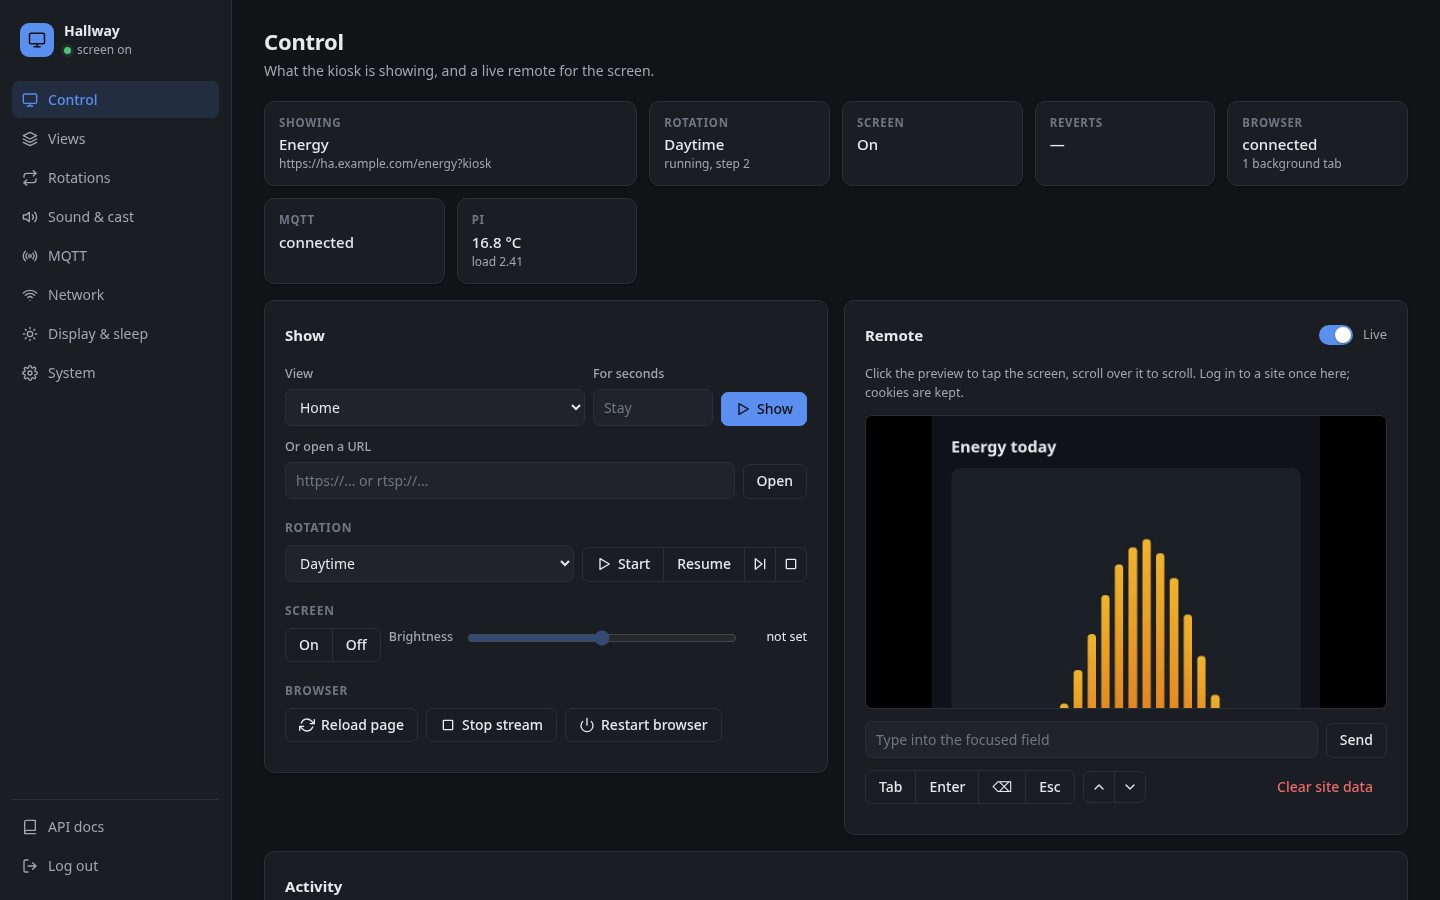
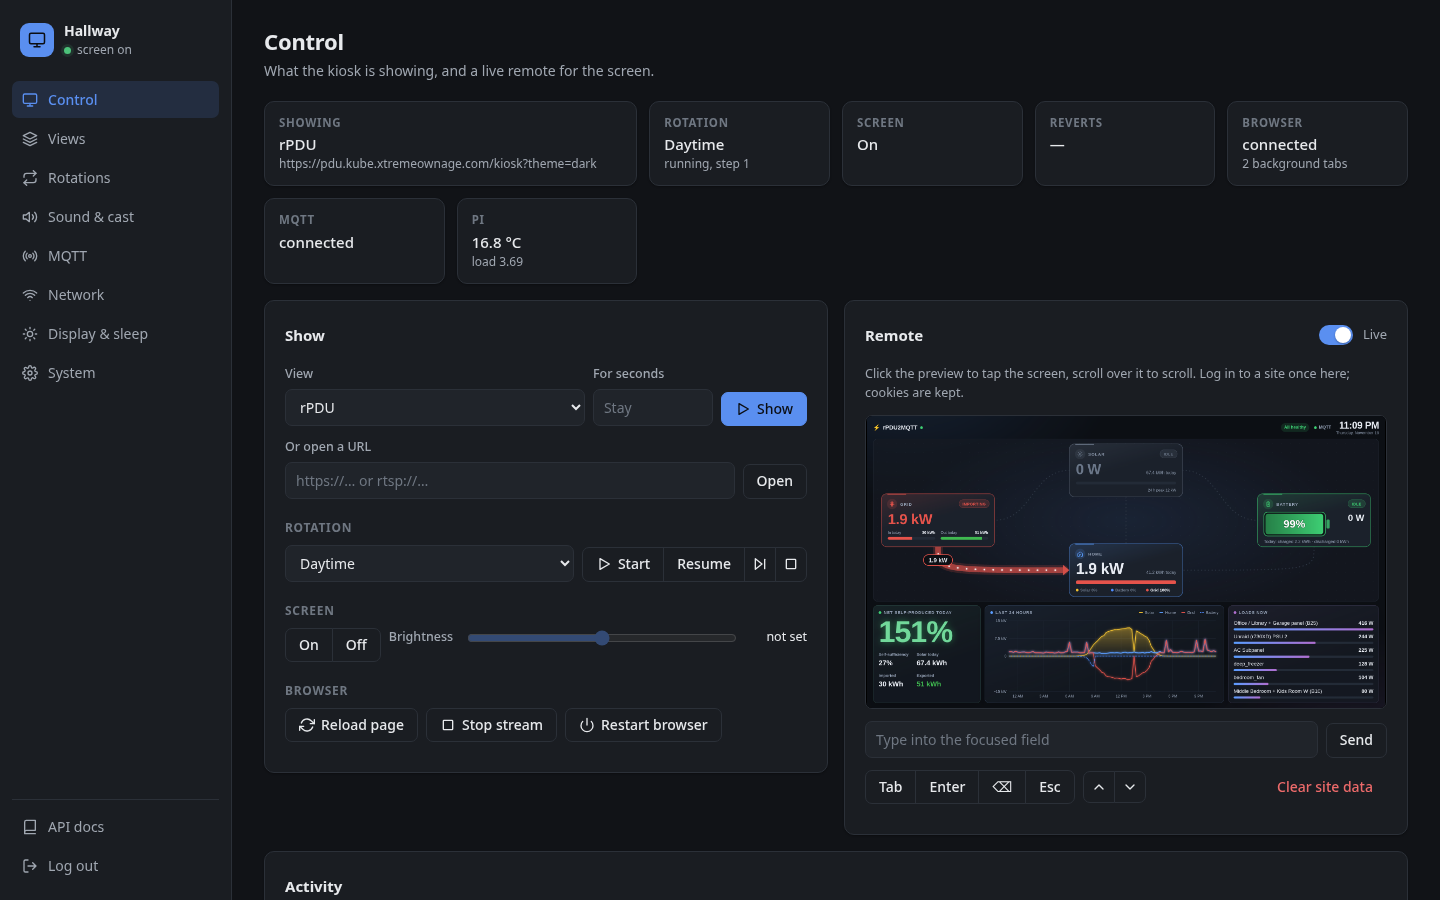
Use a real rPDU2MQTT screen in the docs; listen for YouTube on every network
- Screenshots: the Control preview and a new full-screen capture show a
  live rPDU2MQTT dashboard instead of a made-up page; the home page and
  README lead with it.
- The DIAL receiver joins the SSDP group on every IPv4 interface, so a
  wired kiosk that also joins the phones' Wi-Fi is found there.
- Wi-Fi scan and connect switch the Wi-Fi radio on first.
- Docs: options for phones on another network.

Changed region(s): [[0.5938, 0.4356, 0.9688, 0.8089], [0.1875, 0.1556, 0.4062, 0.1867], [0.2188, 0.4356, 0.25, 0.4667]]

diff --git a/internal/dial/dial.go b/internal/dial/dial.go
@@ -10,6 +10,7 @@ import (
 	"crypto/sha256"
 	"encoding/hex"
 	"encoding/xml"
+	"errors"
 	"fmt"
 	"io"
 	"log/slog"
@@ -19,6 +20,7 @@ import (
 	"strconv"
 	"strings"
 	"sync"
+	"syscall"
 	"time"
 )
 
@@ -168,6 +170,19 @@ func (s *Server) serve(ctx context.Context) error {
 	go func() {
 		<-ctx.Done()
 		conn.Close()
+	}()
+	// Listen on every network the kiosk is on (for example wired and a
+	// second Wi-Fi network for phones), including ones that come up later.
+	go func() {
+		joined := map[int]bool{}
+		for {
+			s.joinAll(conn, group.IP, joined)
+			select {
+			case <-ctx.Done():
+				return
+			case <-time.After(30 * time.Second):
+			}
+		}
 	}()
 	s.log.Info("dial receiver started", "port", s.port)
 	s.setRunning(true)
@@ -399,4 +414,44 @@ func StableUUID(id string) string {
 	h := sha256.Sum256([]byte("pikiosk-dial:" + id))
 	s := hex.EncodeToString(h[:16])
 	return s[0:8] + "-" + s[8:12] + "-" + s[12:16] + "-" + s[16:20] + "-" + s[20:32]
+}
+
+// joinAll joins the SSDP group on each up IPv4 multicast interface not in
+// joined yet.
+func (s *Server) joinAll(conn *net.UDPConn, group net.IP, joined map[int]bool) {
+	ifs, err := net.Interfaces()
+	if err != nil {
+		return
+	}
+	raw, err := conn.SyscallConn()
+	if err != nil {
+		return
+	}
+	for _, ifi := range ifs {
+		if joined[ifi.Index] || ifi.Flags&net.FlagUp == 0 || ifi.Flags&net.FlagMulticast == 0 || ifi.Flags&net.FlagLoopback != 0 {
+			continue
+		}
+		addrs, _ := ifi.Addrs()
+		has4 := false
+		for _, a := range addrs {
+			if n, ok := a.(*net.IPNet); ok && n.IP.To4() != nil {
+				has4 = true
+			}
+		}
+		if !has4 {
+			continue
+		}
+		mreq := &syscall.IPMreqn{Ifindex: int32(ifi.Index)}
+		copy(mreq.Multiaddr[:], group.To4())
+		var serr error
+		_ = raw.Control(func(fd uintptr) {
+			serr = syscall.SetsockoptIPMreqn(int(fd), syscall.IPPROTO_IP, syscall.IP_ADD_MEMBERSHIP, mreq)
+		})
+		if serr == nil || errors.Is(serr, syscall.EADDRINUSE) {
+			joined[ifi.Index] = true
+			if serr == nil {
+				s.log.Info("ssdp listening", "interface", ifi.Name)
+			}
+		}
+	}
 }

diff --git a/internal/system/network.go b/internal/system/network.go
@@ -115,7 +115,20 @@ type WiFiNetwork struct {
 	Active   bool   `json:"active"`
 }
 
+// wifiOn turns the Wi-Fi radio on; Raspberry Pi OS ships with it off.
+func wifiOn(ctx context.Context) {
+	out, err := run(ctx, 10*time.Second, "nmcli", "radio", "wifi")
+	if err == nil && strings.TrimSpace(out) == "enabled" {
+		return
+	}
+	if _, err := run(ctx, 10*time.Second, "nmcli", "radio", "wifi", "on"); err == nil {
+		// Give the adapter a moment to come up before scanning.
+		time.Sleep(3 * time.Second)
+	}
+}
+
 func ScanWiFi(ctx context.Context) ([]WiFiNetwork, error) {
+	wifiOn(ctx)
 	rows, err := nmcli(ctx, "-f", "ACTIVE,SSID,SIGNAL,SECURITY", "device", "wifi", "list", "--rescan", "yes")
 	if err != nil {
 		return nil, err
@@ -147,6 +160,7 @@ func ConnectWiFi(ctx context.Context, ssid, password string) error {
 	if ssid == "" {
 		return errors.New("SSID is required")
 	}
+	wifiOn(ctx)
 	args := []string{"device", "wifi", "connect", ssid}
 	if password != "" {
 		args = append(args, "password", password)

diff --git a/docs-site/docs/guides/sound-and-casting.md b/docs-site/docs/guides/sound-and-casting.md
@@ -88,10 +88,21 @@ Behind the scenes the kiosk answers DIAL, the discovery protocol smart TVs use, 
 
 Phones find the kiosk with SSDP multicast, which routers do not pass between networks. The phone and the kiosk must be on the **same Wi-Fi network or VLAN**. Google Cast devices such as a Chromecast or Nvidia Shield can still show up from another VLAN, because they are found over mDNS, which many routers do forward; that does not help the kiosk.
 
-The **Sound & cast** card shows the last time a phone's search reached the kiosk. *No phone has looked for TVs here yet* means the phone's searches never arrive. To fix it, either:
+The **Sound & cast** card shows the last time a phone's search reached the kiosk. *No phone has looked for TVs here yet* means the phone's searches never arrive. To fix it, pick one:
 
-- connect the phone to the kiosk's network (or move the kiosk to the phone's), or
-- forward SSDP (UDP 1900 to 239.255.255.250) between the two networks with an SSDP or UPnP relay on the router, and allow TCP 56790 from the phone's network to the kiosk.
+| Option | How |
+| --- | --- |
+| **Join the phones' Wi-Fi as well** (easiest) | Keep the kiosk wired, and on the **Network** page scan and connect to the Wi-Fi network your phones use. The kiosk then listens on both networks and answers each phone with its address on the phone's own network. The web UI is reachable from that Wi-Fi too. |
+| Same network | Put the phone on the kiosk's network, or the kiosk on the phone's. |
+| Relay on the router | Forward SSDP multicast (UDP 1900 to 239.255.255.250) from the phones' network to the kiosk's, for example with an IGMP proxy, and allow TCP 56790 and UDP replies between them. |
+
+```mermaid
+flowchart LR
+    P[Phone<br/>Wi-Fi network] -- SSDP search --> W[kiosk wlan0]
+    W --- K[kioskd]
+    E[kiosk eth0<br/>wired VLAN] --- K
+    K -- "here: http://wlan0-address:56790" --> P
+```
 
 This is YouTube only, and the videos come from YouTube, so it needs internet while you use it. Other Android apps can send media over [DLNA](#dlna).
 

diff --git a/docs-site/docs/changelog.md b/docs-site/docs/changelog.md
@@ -12,6 +12,7 @@ description: Release notes.
 - Automatic updates inside a chosen time window and days, at most once a day.
 - Schedules (sleep and automatic updates) follow a timezone change right away instead of after a restart.
 - The Sound & cast card shows whether phones' YouTube searches reach the kiosk, to spot VLAN problems.
+- The YouTube receiver listens on every network the kiosk is on, so a wired kiosk can also join the phones' Wi-Fi and be found there. Wi-Fi scan and connect turn the Wi-Fi radio on first.
 - The release image has every package installed, so the first boot needs no internet.
 - `self-update.sh` only installs a release that is newer than what is running.
 - Screenshots throughout the documentation.

diff --git a/docs-site/docs/index.md b/docs-site/docs/index.md
@@ -17,6 +17,10 @@ It needs no cloud services, accounts or telemetry. Everything it does stays on y
 
 [Install it](getting-started/installation.md){ .md-button .md-button--primary } [REST API](reference/rest-api.md){ .md-button }
 
+![A kiosk showing the rPDU2MQTT power dashboard](assets/screenshots/kiosk-screen.png)
+
+*The screen: an [rPDU2MQTT](https://github.com/XtremeOwnage/rPDU2MQTT) power dashboard in a rotation.*
+
 ![The Control page: what is showing, quick commands and a live preview of the screen](assets/screenshots/control-light.png#only-light)
 ![The Control page: what is showing, quick commands and a live preview of the screen](assets/screenshots/control-dark.png#only-dark)
 

diff --git a/README.md b/README.md
@@ -13,6 +13,10 @@ It needs no cloud services, accounts or telemetry, and it runs fully without int
 
 **Documentation: <https://xtremeownage.github.io/pikiosk/>**
 
+![A kiosk showing the rPDU2MQTT power dashboard](docs-site/docs/assets/screenshots/kiosk-screen.png)
+
+*On the wall: an [rPDU2MQTT](https://github.com/XtremeOwnage/rPDU2MQTT) power dashboard. Below: the web UI that controls it.*
+
 <picture>
   <source media="(prefers-color-scheme: dark)" srcset="docs-site/docs/assets/screenshots/control-dark.png">
   <img alt="The pikiosk web UI: what the kiosk is showing, quick commands and a live preview of the screen" src="docs-site/docs/assets/screenshots/control-light.png">
